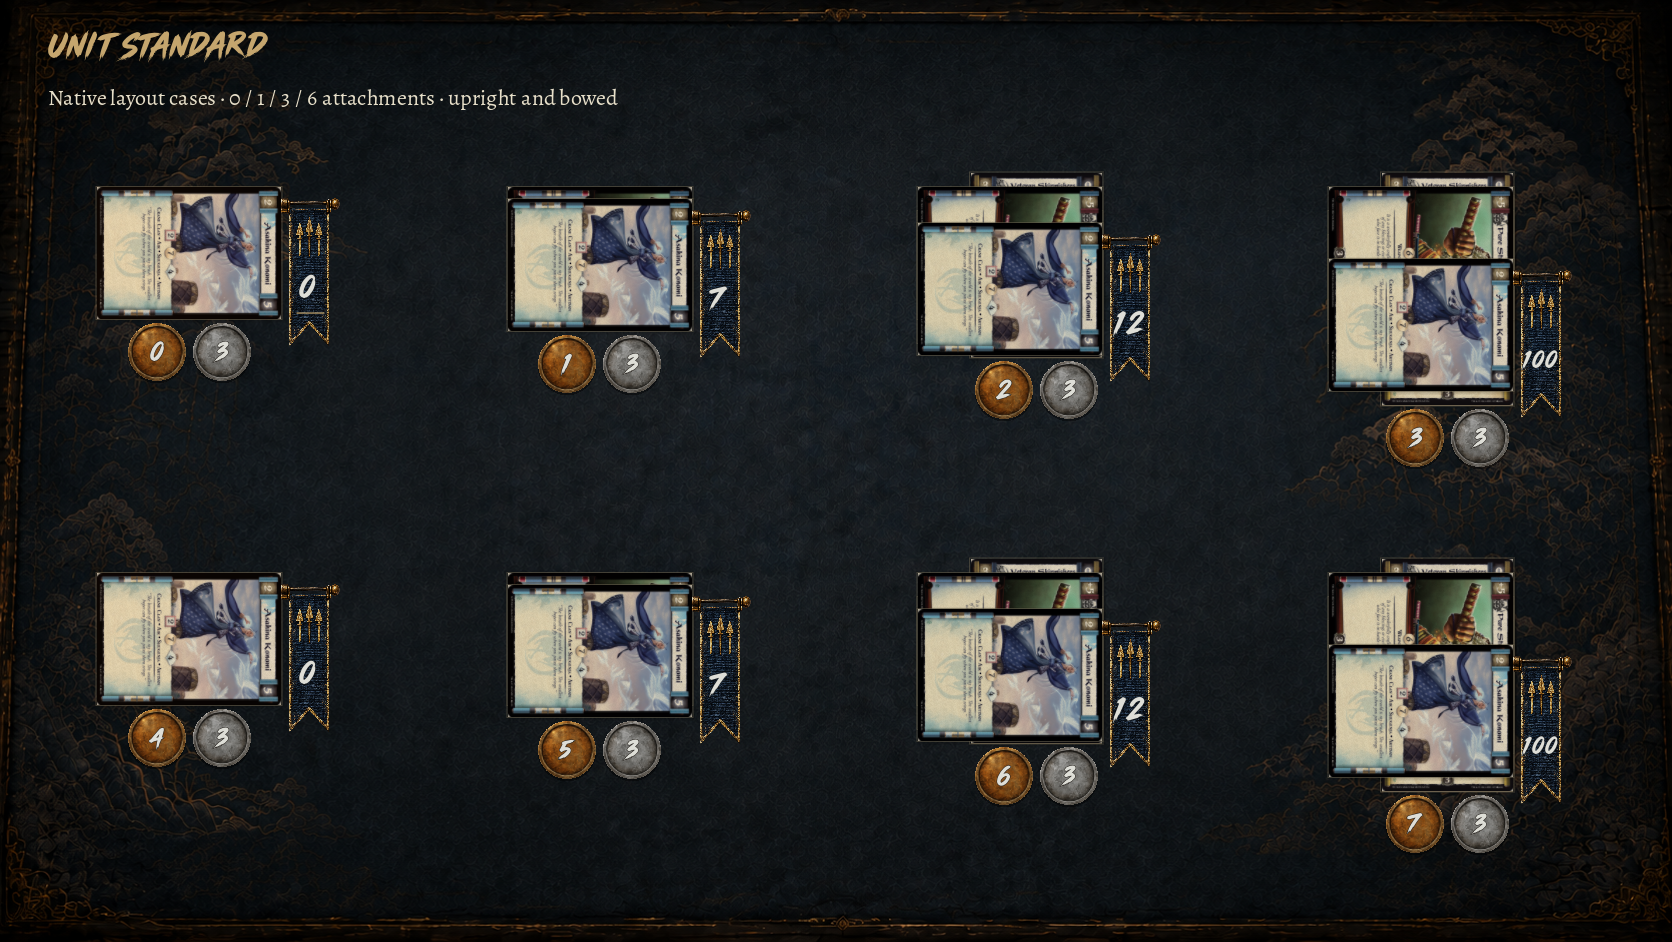
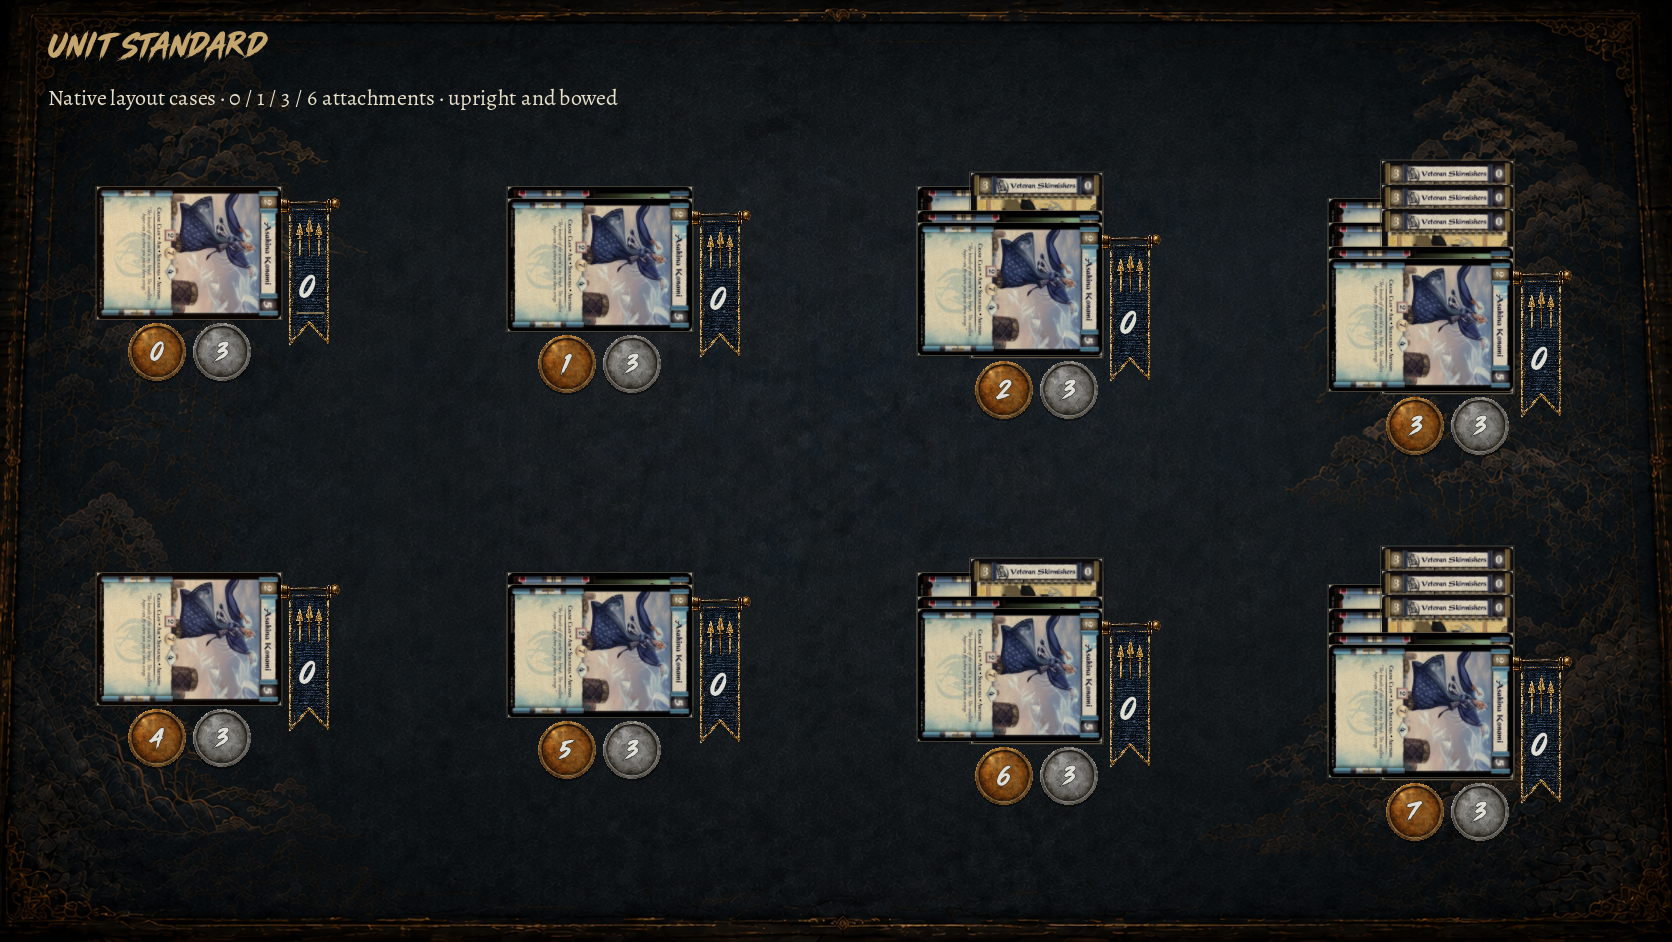
Record integrated bowed-unit validation and playable preview

diff --git a/docs/screenshots/unit-standard/README.md b/docs/screenshots/unit-standard/README.md
@@ -15,3 +15,5 @@ Native captures in this directory are produced by actual Godot components. `comp
 Automated geometry checks cover upright/bowed cards, 0/1/3/6 attachments, 0/1/2/3-digit values, viewport containment and collisions. Real-board checks cover default and focused cameras, expanded attachments, native banner click/tooltip, priority labels, assignment and received resolution events, reduced motion, and 1280/1672/1920/2560 widths. Native screenshots are reviewed separately; test success alone is not visual acceptance.
 
 Follow-up correction: the standard is now part of the projected table canvas, not a screen overlay. Its integrated clip touches the Personality rim. Right-aligned collapsed stack faces prevent bowed attachments from obscuring the mount; the expanded tray reserves a gap beside the Personality. Mounting assertions and silhouette-versus-circle tests accompany these refreshed captures. The combined menu preview additionally passed launcher menu-flow and reduced-motion return checks.
+
+Bowed-rule follow-up: `bowed-unit-correction.png` consumes public Army views exported by the Core regression (Takakura and two Native Guides); the bowed/unbowed totals are 0/13 while both Personality coins remain 3/3. `attachments.png` is refreshed with zero contributions for the ordinary bowed fixture Personalities. Earlier battle/expanded/resolution images document the mounted-artwork pass and predate this rules correction. Reproduce with `bash tools/check-bowed-unit.sh`.
